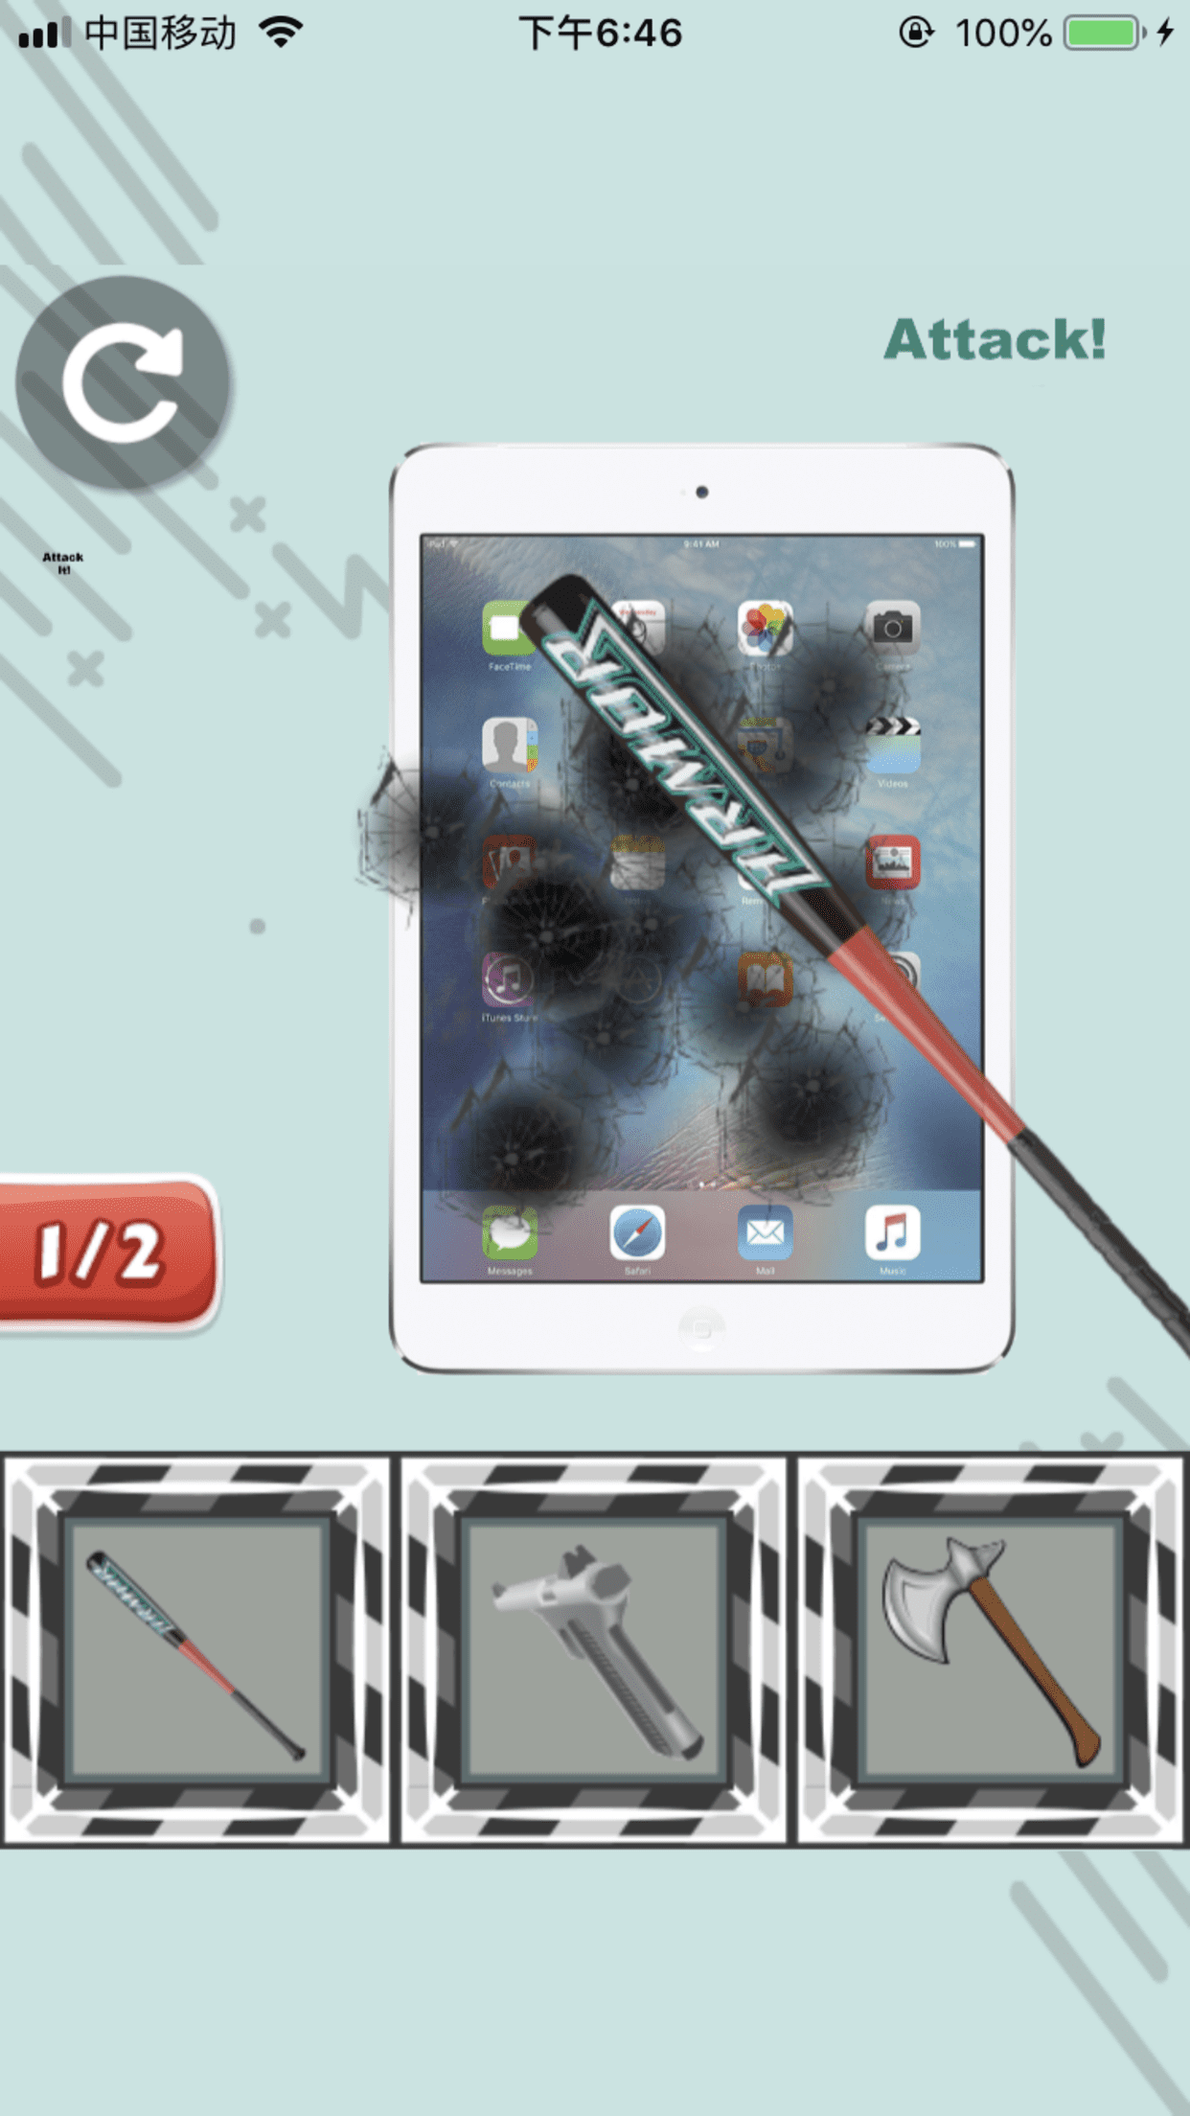
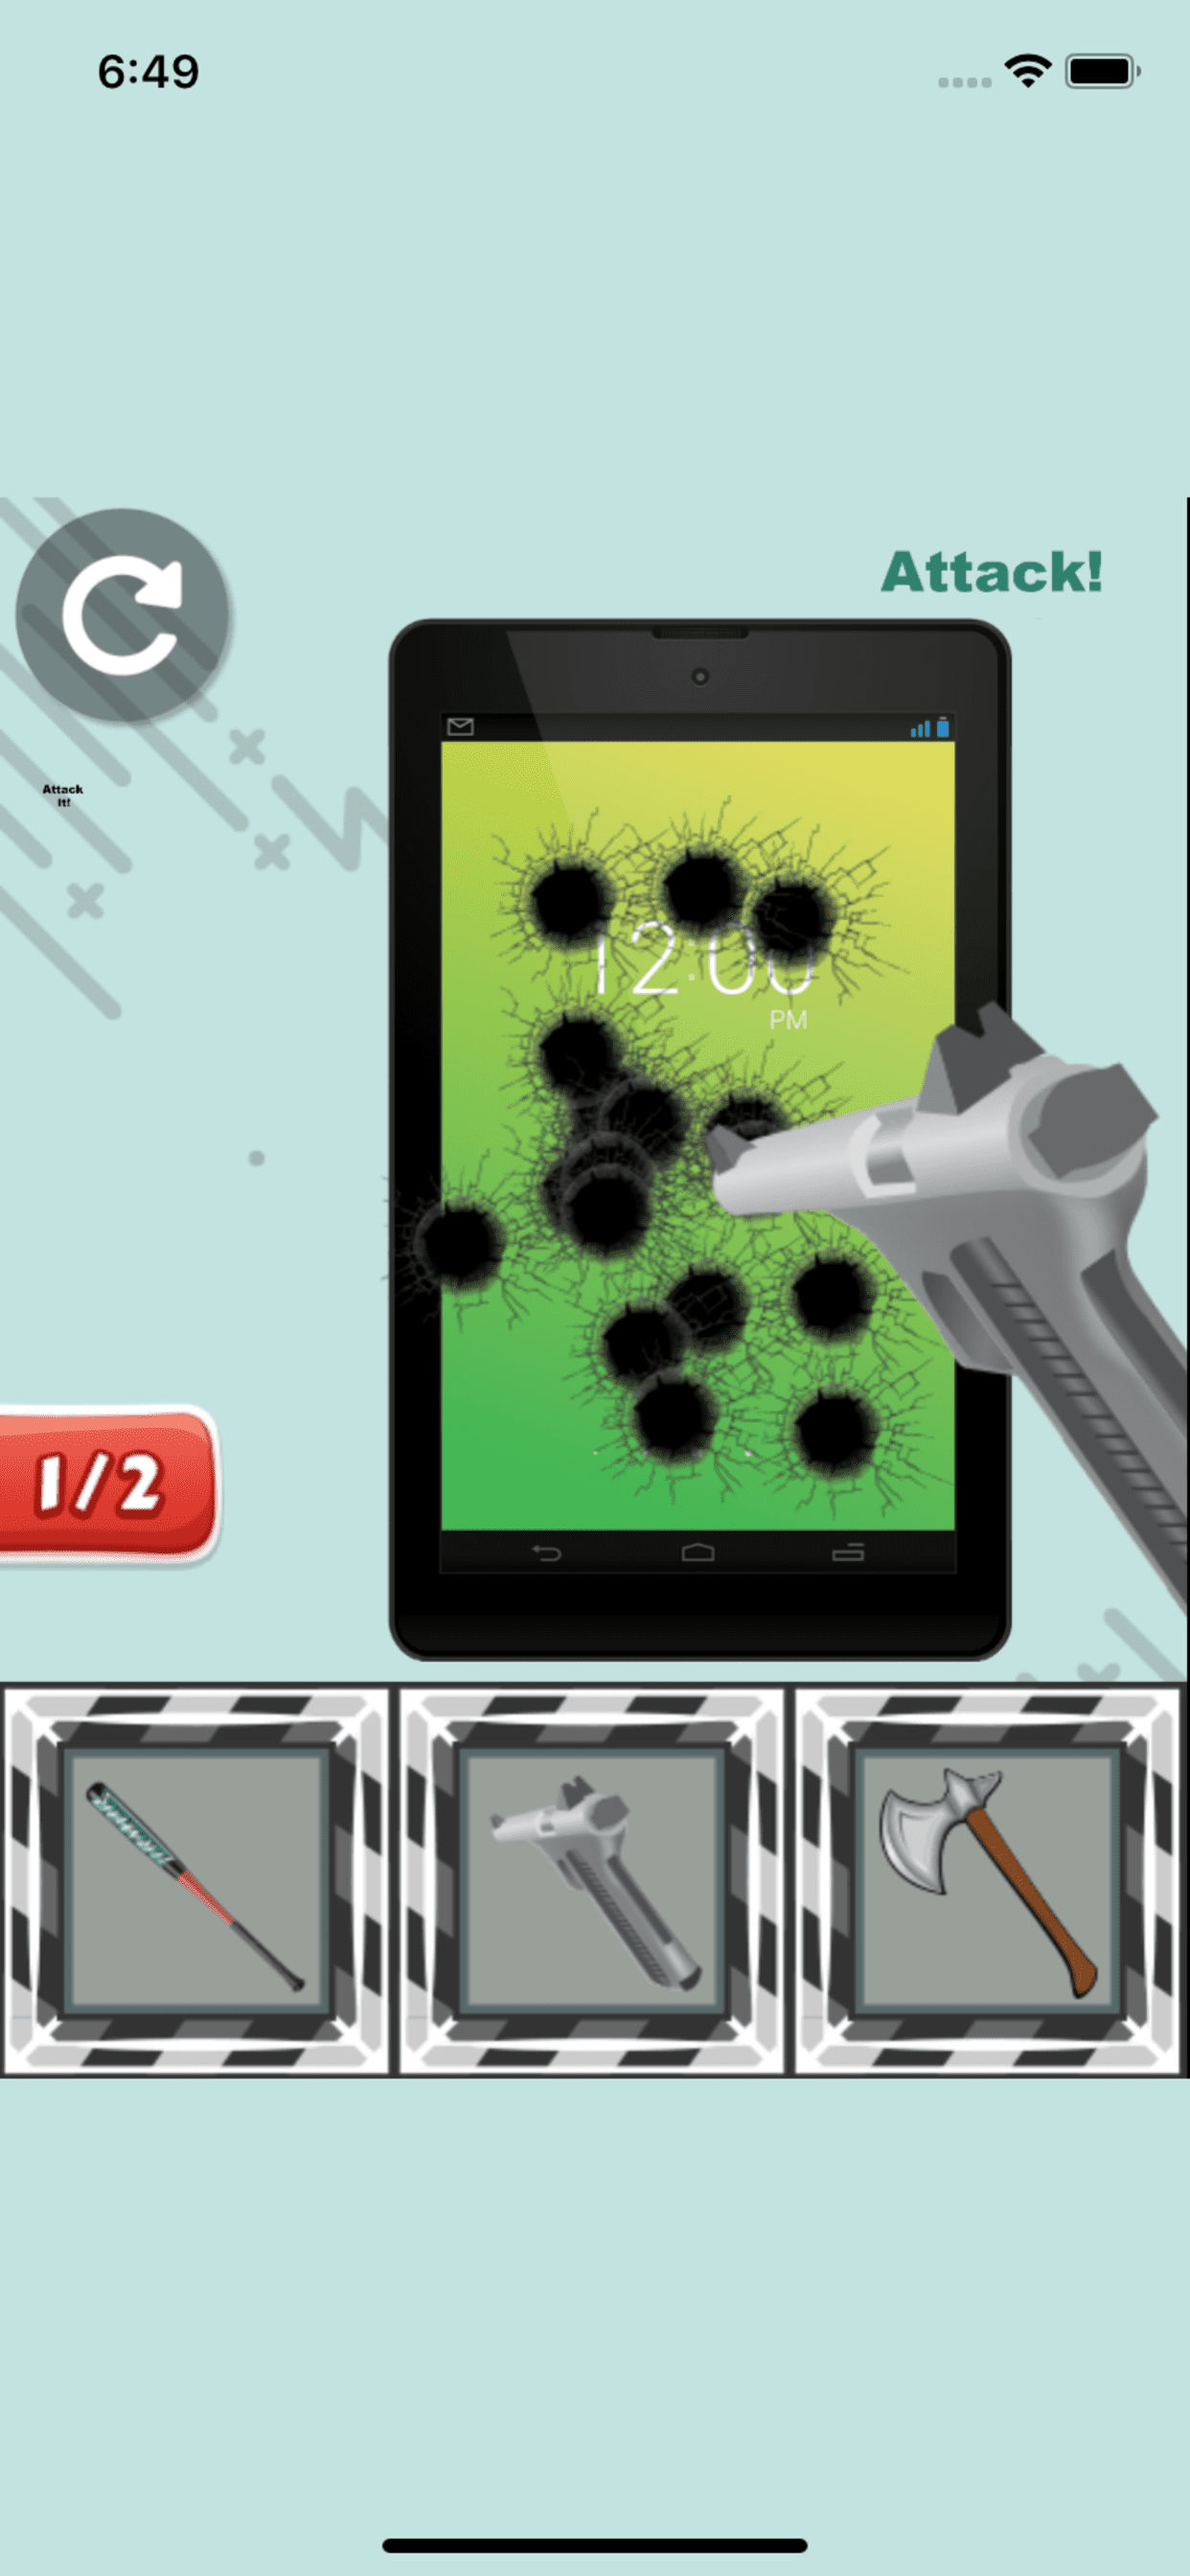
更滑名字

diff --git a/README.md b/README.md
@@ -1,8 +1,8 @@
-# Attack Your Device!!!
+# Buy an ipad replace Andro*
 
 
-Are you upset? Do you want to change your phone?
-Come on, attack your device!
+Are you upset? Do you want to change your device?
+Come on, buy an iPad!
 
 ![](1.png)
 
